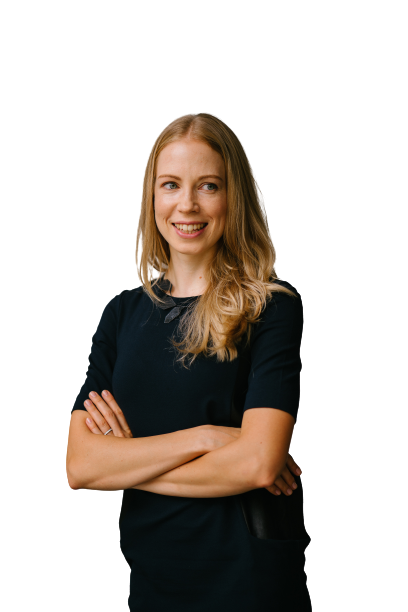
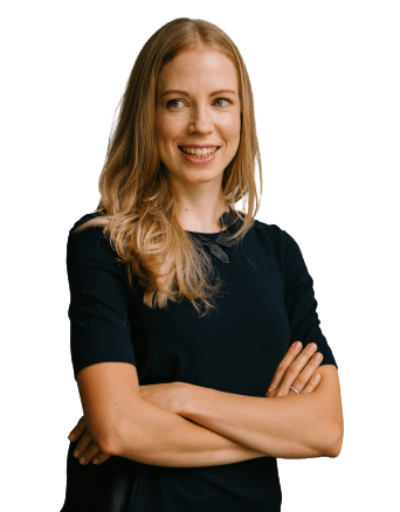
add about us section

diff --git a/index.html b/index.html
@@ -50,14 +50,37 @@
           >Order Food</a
         >
       </div>
-      <img
-        class="hero-pic half-width"
-        src="images/header-pic.png"
-        alt="organic food"
-      />
+      <div class="half-width">
+        <img class="hero-pic" src="images/header-pic.png" alt="organic food" />
+      </div>
     </section>
 
     <!-- About Us Area -->
-    <section class="about-us flex" id="about-us"></section>
+    <section class="about-us-area flex" id="about-us">
+      <div class="half-width">
+        <img class="about-pic" src="images/person-pic.png" alt="about us" />
+      </div>
+      <div class="about-text half-width">
+        <h2>About Us</h2>
+        <p>
+          Fresh Food for all is our slogan. Our vision is in this earth people
+          have access to healthy, ecologically produced, and culturally
+          appropriate food. After 10 years of experience we know people are
+          agreed with our vision.
+        </p>
+        <p>
+          We are wanted to ending the unhealth society. We are published our
+          foode magazine & youtube advertisement that's helping people to take
+          control of their food systems. We try our best to save human and
+          nature.
+        </p>
+        <a
+          href="https://probir-ray.github.io/portfolio-work-one/"
+          target="_blank"
+          class="btn"
+          >Contact Us</a
+        >
+      </div>
+    </section>
   </body>
 </html>

diff --git a/style.css b/style.css
@@ -13,6 +13,10 @@ h1 {
   font-size: 50px;
 }
 
+h2 {
+  font-size: 40px;
+}
+
 .uppercase {
   text-transform: uppercase;
 }
@@ -34,7 +38,7 @@ h1 {
   margin-right: 2.5%;
 }
 section {
-  padding: 35px 35px;
+  padding: 60px 70px;
 }
 
 /* Header area style */
@@ -80,8 +84,27 @@ a.btn {
   margin-top: 15px;
 }
 .hero-pic {
-  width: 60%;
+  width: 100%;
 }
 .hero-text {
   padding: 3.5em 0 0 1em;
+}
+
+/* About us area style */
+.about-us-area {
+  background: url(images/about-bg.jpg) no-repeat center / cover;
+}
+.about-pic {
+  width: 70%;
+  height: 510px;
+  object-fit: cover;
+  padding-left: 4em;
+}
+.about-text {
+  margin-top: 1.5em;
+}
+.about-text p {
+  font-size: 110%;
+  line-height: 150%;
+  padding-right: 10%;
 }
